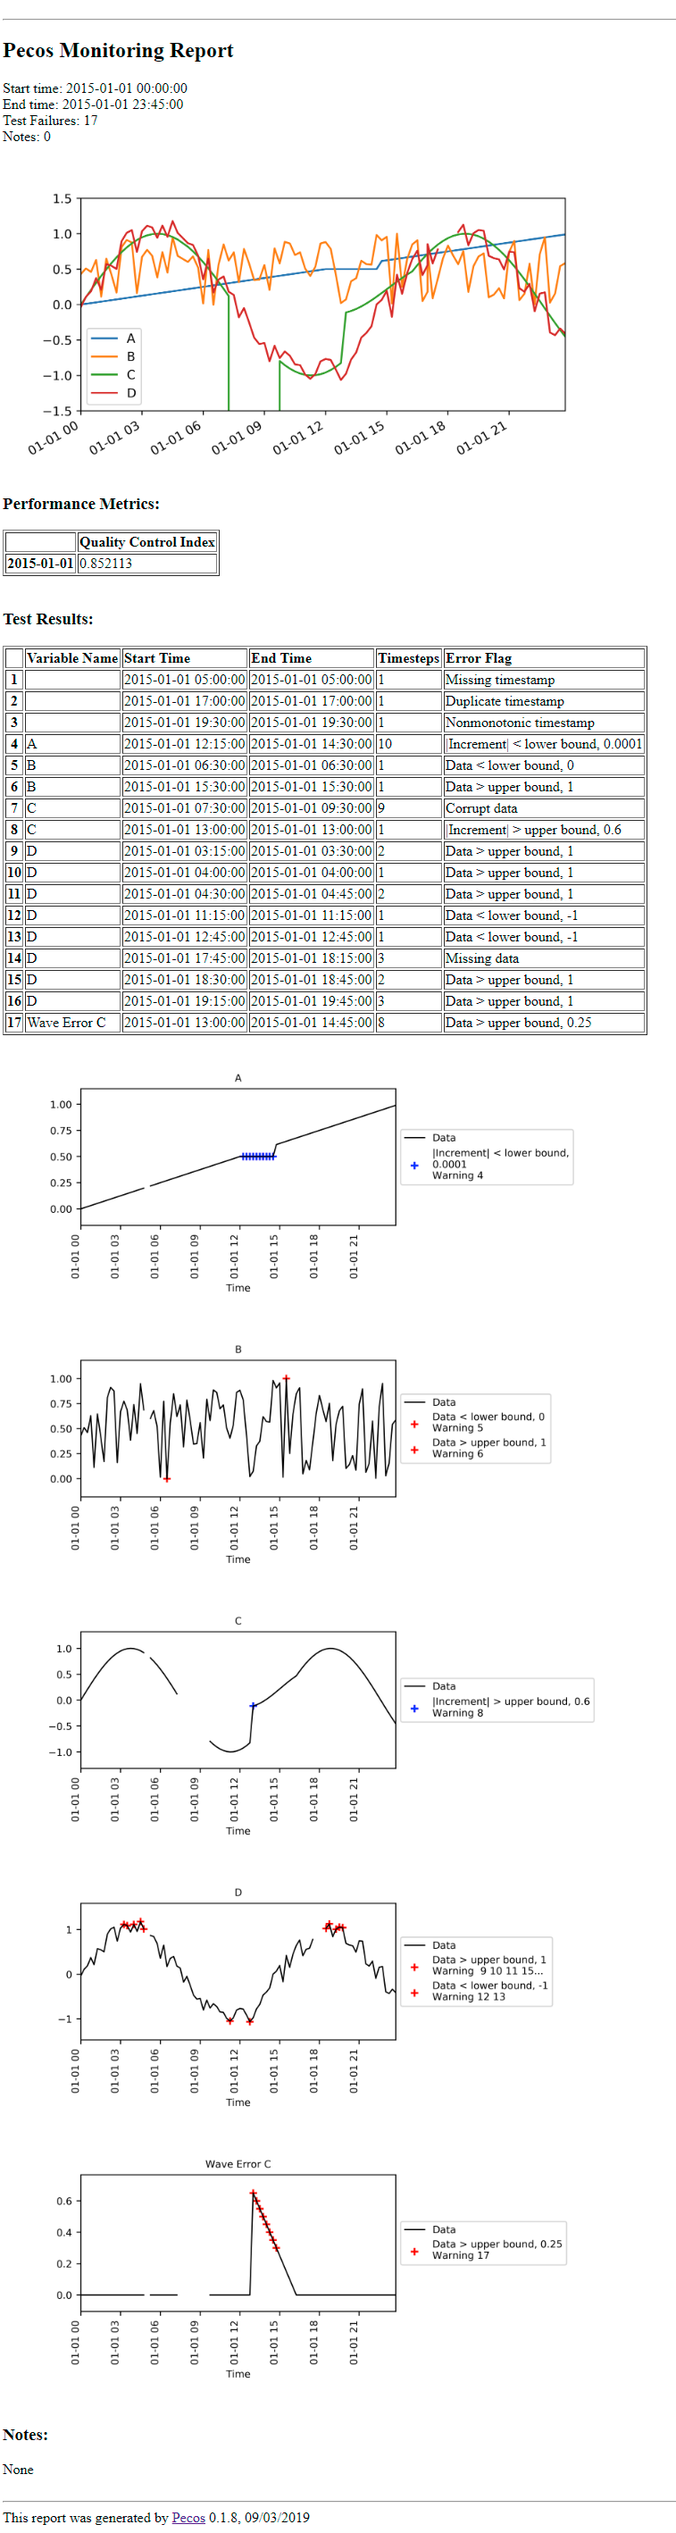
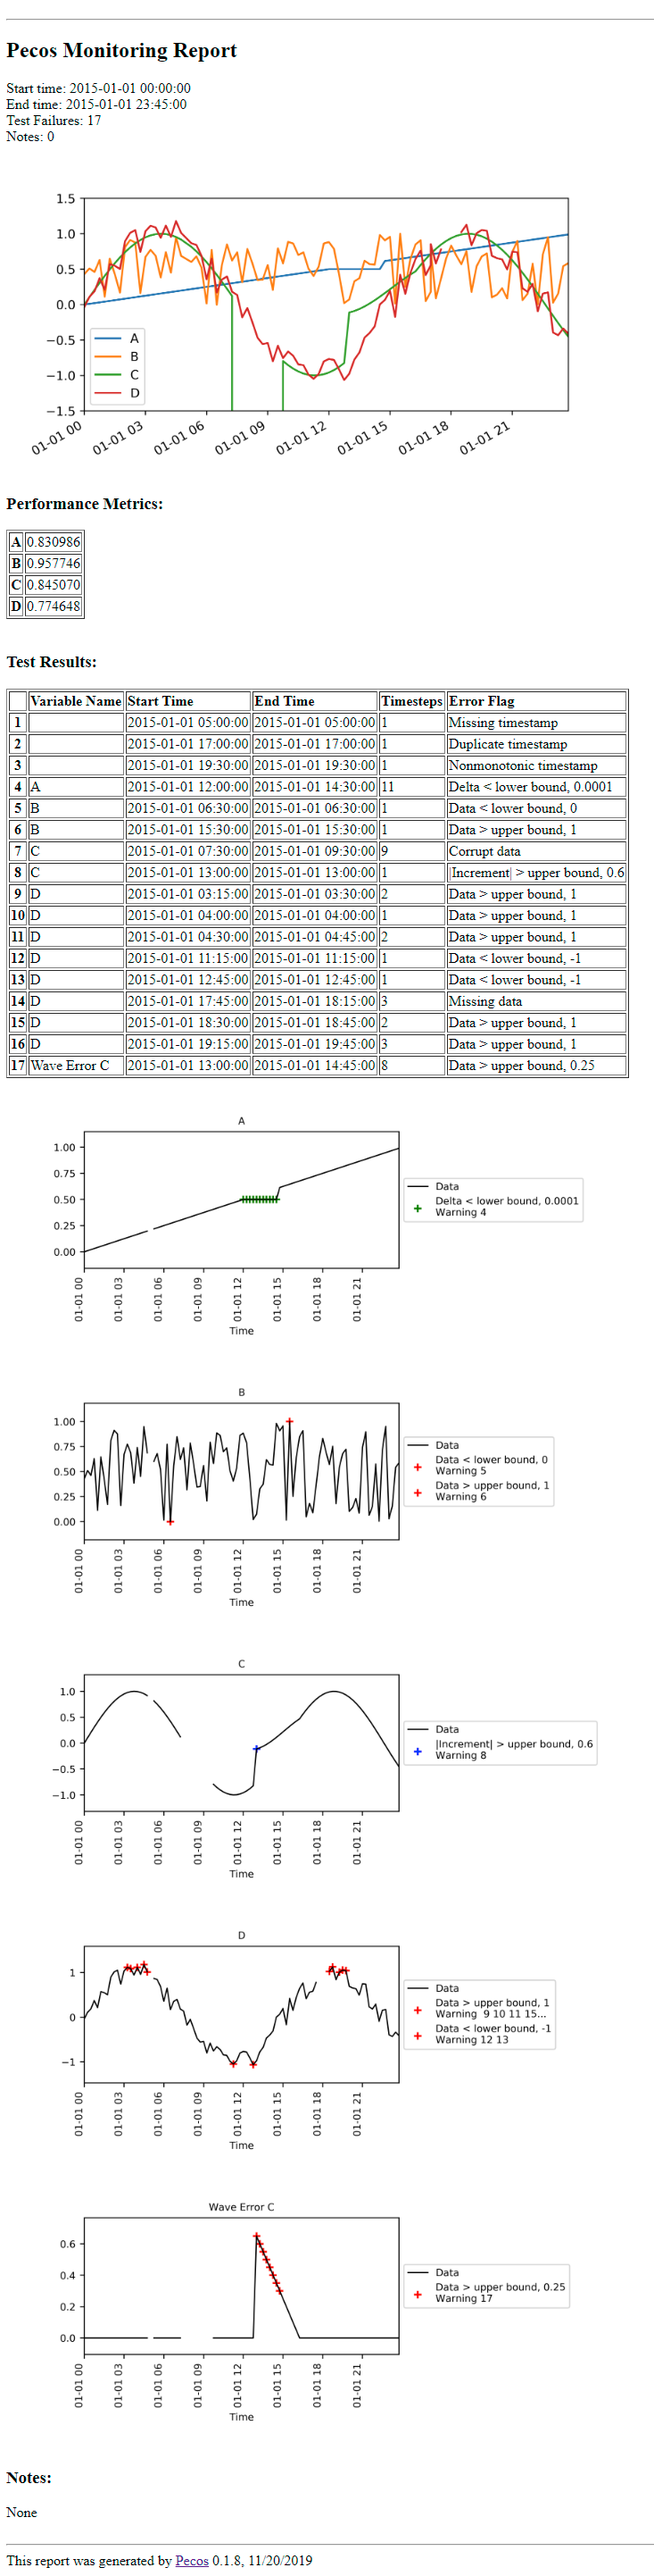
Added check_delta to the simple example

diff --git a/examples/simple/simple_example.py b/examples/simple/simple_example.py
@@ -55,11 +55,14 @@ pm.check_range([0, 1], 'B')
 pm.check_range([-1, 1], 'Wave')
 pm.check_range([None, 0.25], 'Wave Error')
 
-# Check data for stagnant and abrupt changes
-pm.check_increment([0.0001, None], 'A') 
-pm.check_increment([0.0001, None], 'B') 
-pm.check_increment([0.0001, 0.6], 'Wave') 
+# Check for stagnant data within a 1 hour moving window
+pm.check_delta([0.0001, None], 'A', 3600) 
+pm.check_delta([0.0001, None], 'B', 3600) 
+pm.check_delta([0.0001, None], 'Wave', 3600) 
     
+# Check for abrupt changes between consecutive time steps
+pm.check_increment([None, 0.6], 'Wave') 
+
 # Compute the quality control index for A, B, C, and D
 mask = pm.mask[['A','B','C','D']]
 QCI = pecos.metrics.qci(mask, pm.tfilter)

diff --git a/examples/simple/simple_example_using_config.py b/examples/simple/simple_example_using_config.py
@@ -50,7 +50,11 @@ for composite_signal in config['Composite Signals']:
 for key,value in config['Range'].items():
     pm.check_range(value, key)
 
-# Check data for stagnant and abrupt changes
+# Check for stagnant data within a 1 hour moving window
+for key,value in config['Delta'].items():
+    pm.check_delta(value, key, 3600) 
+
+# Check for abrupt changes between consecutive time steps
 for key,value in config['Increment'].items():
     pm.check_increment(value, key) 
     
